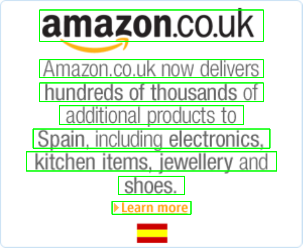
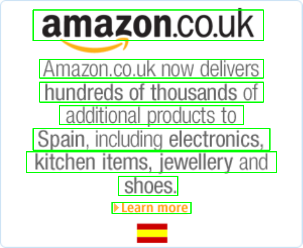
train model, bug fix

diff --git a/main/demo.py b/main/demo.py
@@ -95,7 +95,7 @@ def main(argv=None):
                 scores = rois[:, 0]
                 boxes = rois[:, 1:5]
 
-                textdetector = TextDetector()
+                textdetector = TextDetector(DETECT_MODE='H')
                 boxes = textdetector.detect(boxes, scores[:, np.newaxis], img.shape[:2])
                 boxes = np.array(boxes,dtype=np.int)
 
@@ -106,7 +106,8 @@ def main(argv=None):
                     #    color = (255, 0, 0)
                     else:
                         continue
-                    cv2.rectangle(img, (box[0], box[1]), (box[6], box[7]), color=color, thickness=2)
+                    cv2.polylines(img, [box[:8].astype(np.int32).reshape((-1, 1, 2))], True, color=(0, 255, 0),thickness=2)
+                    # cv2.rectangle(img, (box[0], box[1]), (box[6], box[7]), color=color, thickness=2)
                 img = cv2.resize(img, None, None, fx=1.0 / rh, fy=1.0 / rw, interpolation=cv2.INTER_LINEAR)
                 cv2.imwrite(os.path.join(FLAGS.output_path, os.path.basename(im_fn)), img[:,:,::-1])
 

diff --git a/utils/text_connector/text_proposal_connector_oriented.py b/utils/text_connector/text_proposal_connector_oriented.py
@@ -97,10 +97,10 @@ class TextProposalConnector:
             text_recs[index, 1] = y1
             text_recs[index, 2] = x2
             text_recs[index, 3] = y2
-            text_recs[index, 4] = x3
-            text_recs[index, 5] = y3
-            text_recs[index, 6] = x4
-            text_recs[index, 7] = y4
+            text_recs[index, 4] = x4
+            text_recs[index, 5] = y4
+            text_recs[index, 6] = x3
+            text_recs[index, 7] = y3
             text_recs[index, 8] = line[4]
             index = index + 1
 

diff --git a/utils/text_connector/text_proposal_connector.py b/utils/text_connector/text_proposal_connector.py
@@ -56,9 +56,9 @@ class TextProposalConnector:
             text_recs[index, 1] = ymin
             text_recs[index, 2] = xmax
             text_recs[index, 3] = ymin
-            text_recs[index, 4] = xmin
+            text_recs[index, 4] = xmax
             text_recs[index, 5] = ymax
-            text_recs[index, 6] = xmax
+            text_recs[index, 6] = xmin
             text_recs[index, 7] = ymax
             text_recs[index, 8] = line[4]
             index = index + 1
